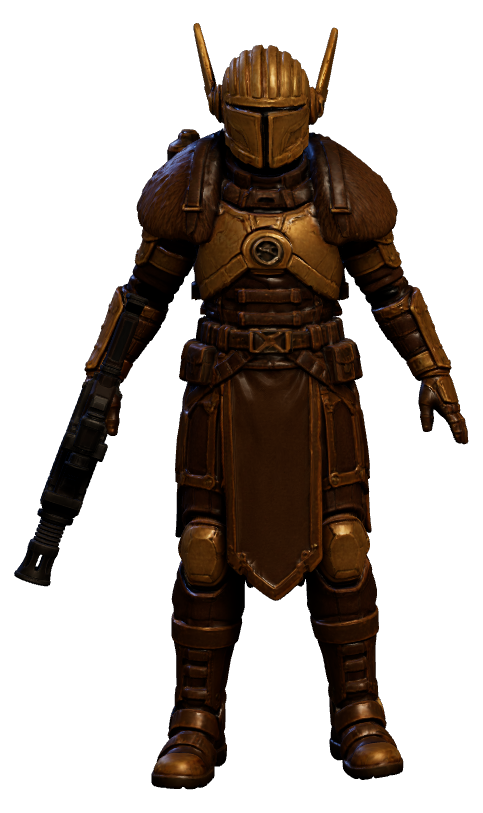
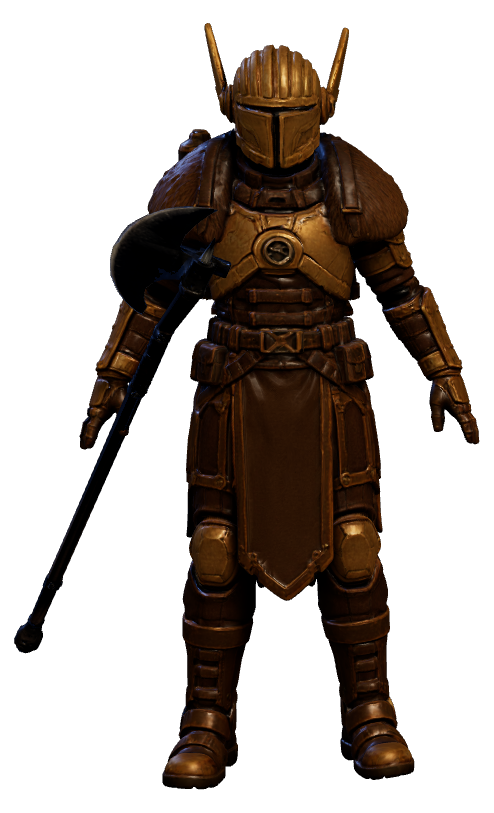
Document optional staff fighters and show Armorer with axe

Changed region(s): [[0.0311, 0.0308, 0.9627, 0.984], [0.7764, 0.2153, 0.8075, 0.246]]

diff --git a/src/ui/charselect.ts b/src/ui/charselect.ts
@@ -620,6 +620,13 @@ export class CharacterSelect {
       c.root.traverse((o) => { o.castShadow = true; });
       c.animator?.play('lower', 'idleLower');
       c.animator?.play('upper', 'idleUpper');
+      // The Armorer presents her signature forge axe on the select plinth.
+      // Poster generation uses this same build, so the still and live model
+      // agree when the authored body and prop finish loading.
+      if (id === 'armorer') {
+        c.setWeapon('gaffi');
+        c.gaffi.rotation.z = -0.6; // show the axe blade clear of her shoulder
+      }
       c.setHeroLight(BASE_GLOW);
       c.root.visible = false;
       s.group.add(c.root);

diff --git a/docs/ASSETS_MODELS.md b/docs/ASSETS_MODELS.md
@@ -82,11 +82,21 @@ All seven reimported as single static meshes with UVs and materials.
 | `force_pike.glb` | 1,260 | Available for a future Imperial guard |
 | `nightsister_polearm.glb` | 3,200 | Available for a future Nightsister enemy |
 
-The last four are ready as props but intentionally unassigned: existing
-Ventress, Maul, Revan and Galen keep their signature sabers, and the current
-security droids and Imperial soldiers are built around ranged weapons. A
-scavenger, MagnaGuard, ceremonial guard, or Nightsister would give each of the
-remaining polearms a distinct role without changing those characters' kits.
+The last four are ready as props but intentionally unassigned. These optional
+character proposals give each one a distinct role; none is an approved roster
+addition or a request to replace a current character's signature weapon.
+
+| Proposed character | Weapon | Role and art/animation brief |
+|---|---|---|
+| **Scavenger staff fighter** (Rey-inspired) | `rey_staff.glb` | Agile, mobile staff user; hands spaced far apart for sweeps, vaults and defensive parries. Needs an original character sheet and a two-handed staff combat set. |
+| **MagnaGuard-style elite** | `electrostaff.glb` | Durable droid melee guard that closes distance and uses alternating-end strikes. The shipped prop is unpowered; electric arcs and hit effects would be added in game. Needs its own droid model and staff animation set. |
+| **Imperial ceremonial guard** | `force_pike.glb` | Guard enemy with a long reach and disciplined thrusts, suited to station or palace interiors. Needs a guard body and pike-specific attack telegraphs. |
+| **Nightsister polearm fighter** | `nightsister_polearm.glb` | Fast occult melee enemy with hooked cuts and a distinctive stance. Needs an original character sheet/model and its own combat poses. |
+
+Existing Ventress, Maul, Revan and Galen keep their signature sabers; the
+current security droids and Imperial soldiers retain their ranged kits. The
+optional characters and their weapon props can be developed independently of
+the optional Missions v3 outdoor scenery listed above.
 
 ## Playable bounty hunters (5) — priority 2
 
